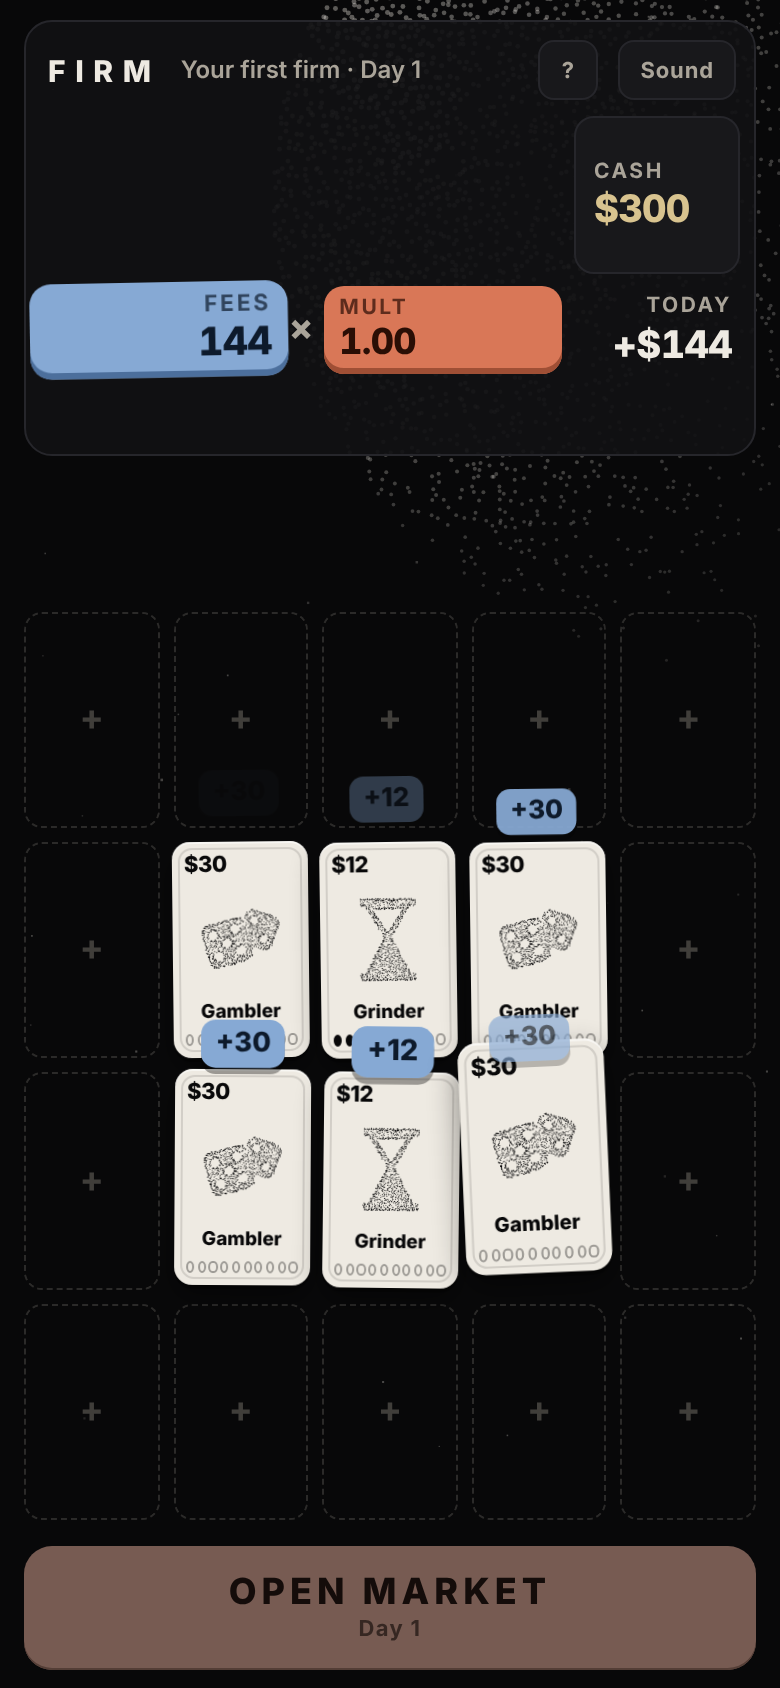
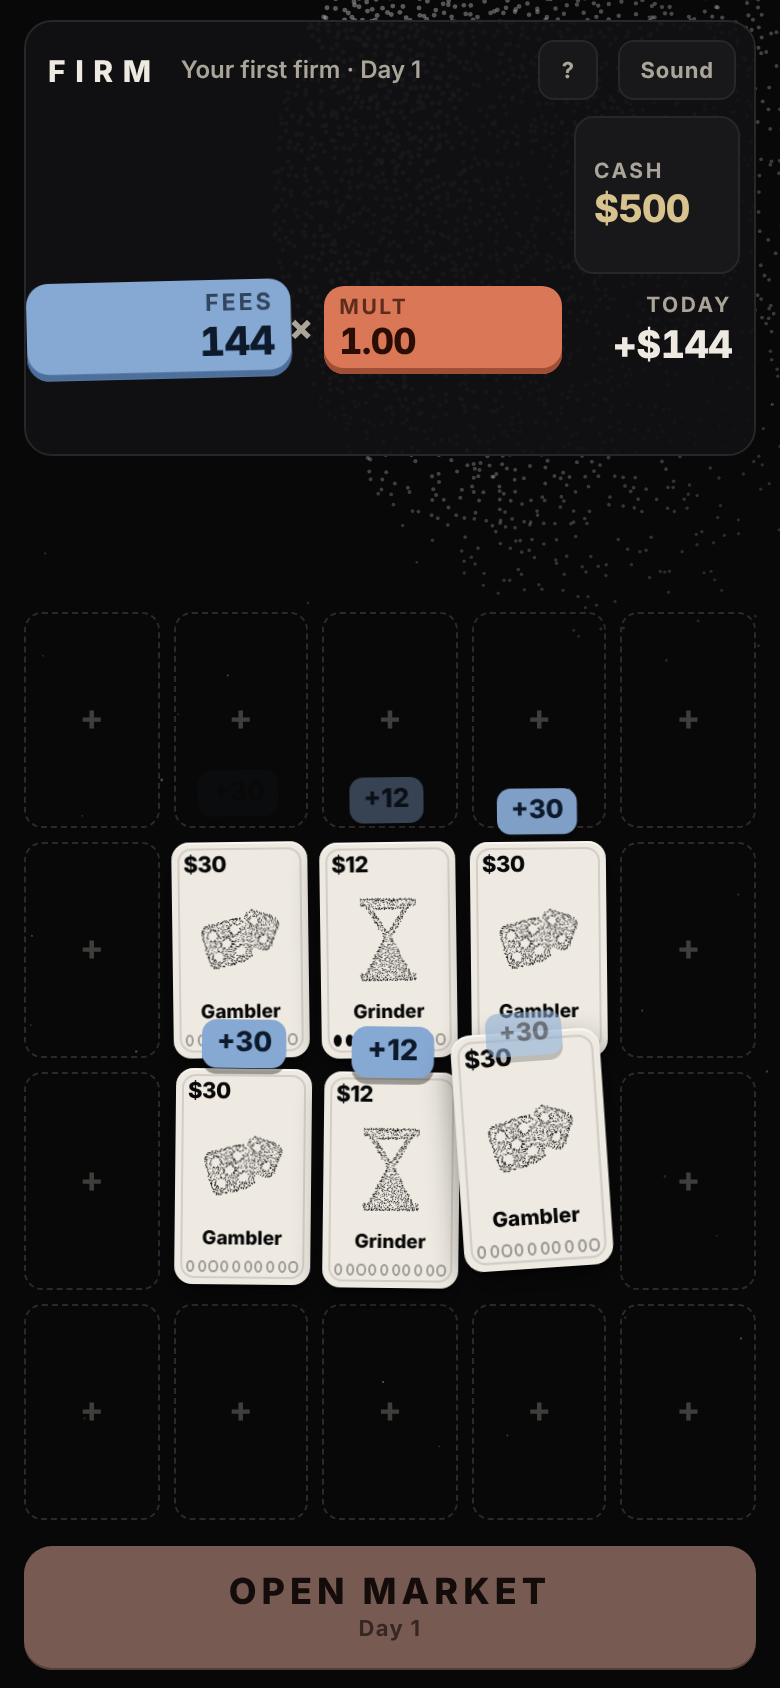
Hard mode: hires cost cash, escalating reroll cost, start $120, payroll $700 x1.55; price-aware bots; balance v2
Claude-Session: https://claude.ai/code/session_01Nb1yAZkYoauLwgSi5RFW5d

diff --git a/apps/game/src/main.ts b/apps/game/src/main.ts
@@ -1,5 +1,5 @@
 import {
-  BALANCE, CARDS, EXCUSES, cardDef, displayName, excuseDef, findCard, legalActions, newRun, seedFromString, step, trustMultiplier, valuation,
+  BALANCE, CARDS, EXCUSES, cardDef, displayName, excuseDef, findCard, legalActions, newRun, offerPrice, rerollPrice, seedFromString, step, trustMultiplier, valuation,
 } from '@firm/sim';
 import type { Action, Candle, CardInstance, GameState, Offer } from '@firm/sim';
 import { stippleArt, startSky } from './stipple.ts';
@@ -53,6 +53,7 @@ function newGame(mode: Mode): void {
     if (g) g.progress = 6;
     s = { ...s, grid };
   }
+  if (mode === 'tutorial') s = { ...s, cash: 500 };
   ui = { s, mode, firm: mode === 'tutorial' ? 'Your first firm' : firmName(seed), tape: [], bestIncome: 0, selected: null, revealed: mode === 'tutorial' ? [] : [...ALL_REVEALS], score: { base: 0, mult: 1, today: 0 } };
   shownCash = s.cash;
   closeOverlays();
@@ -139,7 +140,7 @@ function renderRun(): void {
   sky.setHeat(s.heat / 100);
   $('#day').textContent = String(s.day);
   $('#cycle').textContent = String(s.payroll.cycle);
-  $('#rerolls').textContent = String(s.rerolls);
+  $('#rerolls').textContent = money(rerollPrice(s));
   $('#booked').textContent = String(s.grid.filter(Boolean).length);
   setScore(ui.score);
 
@@ -213,12 +214,12 @@ function renderShop(): void {
     return;
   }
   shop.innerHTML = `<div class="shop-in">
-    <div class="shop-head"><b>Hire</b><small>one card a day · staff boost their 8 neighbours</small></div>
+    <div class="shop-head"><b>Hire</b><small>cash ${money(s.cash)} · payroll ${money(s.payroll.amount)} in ${Math.max(0, s.payroll.dueDay - s.day)}d</small></div>
     <div class="offers">${s.offers.map((o, i) => `
-      <button class="offer r-${offerRarity(o)}" data-o="${i}" style="--i:${i}">
+      <button class="offer r-${offerRarity(o)}${s.cash < offerPrice(o) ? ' broke' : ''}" data-o="${i}" style="--i:${i}" ${s.cash < offerPrice(o) ? 'aria-disabled="true"' : ''}><span class="price">${money(offerPrice(o))}</span>
         <span class="otag">${offerTag(o)}</span><img src="${stippleArt(offerArt(o))}" alt=""><b>${esc(offerName(o))}</b><small>${esc(offerBlurb(o))}</small>
       </button>`).join('')}</div>
-    <div class="shop-row"><button class="btn2" id="sh-reroll" ${s.rerolls > 0 ? '' : 'disabled'}>Reroll · ${s.rerolls}</button><button class="btn2 gold" id="sh-skip">Skip</button></div>
+    <div class="shop-row"><button class="btn2" id="sh-reroll" ${s.cash >= rerollPrice(s) ? '' : 'disabled'}>Reroll · ${money(rerollPrice(s))}</button><button class="btn2 gold" id="sh-skip">Skip</button></div>
   </div>`;
   shop.querySelectorAll<HTMLButtonElement>('.offer').forEach((b) => { b.onclick = () => chooseOffer(Number(b.dataset.o)); });
   $('#sh-reroll').onclick = () => { if (!gate('reroll')) return; J.tick(); act({ type: 'reroll' }); };
@@ -257,7 +258,9 @@ function afterStep(prev: GameState): void {
 
 function chooseOffer(i: number): void {
   const o = ui.s.offers[i];
-  if (!o || busy || !gate('select')) return;
+  if (!o || busy) return;
+  if (ui.s.cash < offerPrice(o)) { J.loss(); flash(`Can't afford ${offerName(o)} · ${money(offerPrice(o))}`); return; }
+  if (!gate('select')) return;
   J.unlockAudio(); J.tick();
   if (o.kind === 'excuse' || o.id === 'botfarm') {
     act({ type: 'draft', pick: i }, o.kind === 'excuse' ? `${offerName(o)} added to your excuses` : 'Bulk order placed');
@@ -562,7 +565,7 @@ function showHow(): void {
       <p class="eyebrow" id="how-title">How FIRM works</p>
       <ol class="how">
         <li><span><b>Open the market.</b> Each day prints one candle. Every customer on the book reacts and pays you <b class="k-chip">fees</b>.</span></li>
-        <li><span><b>Staff multiply.</b> Staff boost the 8 cards around them. Placement builds your <b class="k-mult">mult</b>. Fees × mult = today's take.</span></li>
+        <li><span><b>Hire carefully.</b> One card a day, paid in cash. Staff boost the 8 cards around them and build your <b class="k-mult">mult</b>. Fees × mult = today's take. Every hire is cash you won't have at payroll.</span></li>
         <li><span><b>Trends pay them.</b> Chop days mostly pay you. Trend days fill traders' dots. A full card wants a <b class="k-gold">payout</b>.</span></li>
         <li><span><b>Pay, stall, or deny.</b> Paying builds Trust, which multiplies every fee. Denying keeps cash but burns Trust and adds Heat. Fraud you've exposed can be denied for free.</span></li>
         <li><span><b>Make payroll.</b> Every 5 days, and it grows each time. Miss it and the firm closes. Heat at 100 closes it too.</span></li>
@@ -705,7 +708,7 @@ async function tutorial(): Promise<void> {
   await say({ text: 'Open the market. Every day prints one candle, and every card reacts.', target: '#btn-tap', hint: 'Tap OPEN MARKET', wait: 'tap-done', allow: ['tap'] }); if (!live()) return;
   offers([{ kind: 'card', id: 'affiliate' }, { kind: 'card', id: 'gambler' }, { kind: 'excuse', id: 'kyc' }]);
   await say({ text: 'Blue is fees, clay is your multiplier. Fees times mult is what you made today.', target: '.score' }); if (!live()) return;
-  await say({ text: 'After every day you hire one card. Take the Affiliate. Staff boost the 8 cards around them.', target: '.offers', hint: 'Tap the Affiliate', wait: 'select', allow: ['select'] }); if (!live()) return;
+  await say({ text: 'After every day you can hire one card, if you can afford it. Every dollar you spend is a dollar short at payroll. Take the Affiliate: staff boost the 8 cards around them.', target: '.offers', hint: 'Tap the Affiliate', wait: 'select', allow: ['select'] }); if (!live()) return;
   await say({ text: 'Put them next to as many Gamblers as you can. Placement is the whole game.', target: '.felt', hint: 'Tap an empty slot', wait: 'placed', allow: ['place'], top: true }); if (!live()) return;
   reveal('payroll');
   await say({ text: 'This is payroll. Every 5 days, and it grows every time. Miss it once and the firm is dead.', target: '#payroll' }); if (!live()) return;
@@ -727,7 +730,7 @@ async function tutorial(): Promise<void> {
   store('tutorialDone', true);
   ui.mode = 'random';
   renderRun();
-  await say({ text: "That's the job. Tap ? any time for the rules. Survive as long as you can, boss.", target: null });
+  await say({ text: "That's the job. From here it only gets harder. Payroll grows every cycle and every hire competes with it. Tap ? for the rules. Good luck, boss.", target: null });
 }
 
 // ================================================================== boot

diff --git a/packages/sim/test/engine.test.ts b/packages/sim/test/engine.test.ts
@@ -1,7 +1,7 @@
 import { test } from 'node:test';
 import assert from 'node:assert/strict';
 import {
-  BALANCE, CARDS, IllegalAction, findCard, legalActions, newRun, step, valuation,
+  BALANCE, CARDS, IllegalAction, findCard, legalActions, newRun, offerPrice, step, valuation,
 } from '../src/index.ts';
 import type { Candle, CardInstance, GameState } from '../src/index.ts';
 
@@ -27,10 +27,10 @@ const incomeOf = (s: GameState, uid: number): number => s.lastReport?.results.fi
 
 // ---------------------------------------------------------------- core rules
 
-test('a new run starts with six traders, $300 and two excuses', () => {
+test('a new run starts with six traders, a little cash and two excuses', () => {
   const s = newRun(1);
   assert.equal(s.grid.filter(Boolean).length, 6);
-  assert.equal(s.cash, 300);
+  assert.equal(s.cash, BALANCE.startCash);
   assert.equal(s.excuses.length, 2);
   assert.equal(s.phase, 'morning');
 });
@@ -53,6 +53,30 @@ test('step never mutates the previous state', () => {
   const before = JSON.stringify(s);
   tap(s);
   assert.equal(JSON.stringify(s), before);
+});
+
+test('hiring costs money by rarity and you cannot overspend', () => {
+  let s = tap(setup({}, 'chop'));
+  s.cash = 100;
+  s.offers = [{ kind: 'card', id: 'gambler' }, { kind: 'card', id: 'whale' }, { kind: 'excuse', id: 'kyc' }];
+  const picks = legalActions(s).filter((a) => a.type === 'draft' && a.pick !== null).map((a) => (a as { pick: number }).pick);
+  assert.deepEqual(picks, [0, 2]);
+  assert.throws(() => step(s, { type: 'draft', pick: 1 }), IllegalAction);
+  s = step(s, { type: 'draft', pick: 0, slot: 0 });
+  assert.equal(s.cash, 100 - BALANCE.prices.common!);
+});
+
+test('rerolls get more expensive each time in the same shop', () => {
+  let s = tap(setup({}, 'chop'));
+  s.cash = 1000;
+  s = step(s, { type: 'reroll' });
+  s = step(s, { type: 'reroll' });
+  assert.equal(s.cash, 1000 - BALANCE.rerollBase - (BALANCE.rerollBase + BALANCE.rerollStep));
+});
+
+test('hidden fraud is priced like an ordinary customer', () => {
+  assert.equal(offerPrice({ kind: 'card', id: 'hedger' }), BALANCE.prices.common);
+  assert.equal(offerPrice({ kind: 'card', id: 'detector' }), BALANCE.prices.rare);
 });
 
 test('the Payout Desk always has a way out, even broke with no excuses', () => {
@@ -91,7 +115,7 @@ test('paying payroll grows the next bill and moves the due day', () => {
   s = tap(s);
   s = step(s, { type: 'draft', pick: null });
   assert.equal(s.cash, 5000 - BALANCE.payrollStart);
-  assert.equal(s.payroll.amount, BALANCE.payrollStart * BALANCE.payrollGrowth);
+  assert.equal(s.payroll.amount, Math.round((BALANCE.payrollStart * BALANCE.payrollGrowth) / 10) * 10);
   assert.equal(s.payroll.dueDay, BALANCE.cycleDays * 2);
   assert.equal(s.day, BALANCE.cycleDays + 1);
 });
@@ -351,7 +375,8 @@ test('every draftable card and excuse can actually be offered', () => {
   s = tap(s);
   while (s.phase === 'payout') s = step(s, { type: 'payout', decision: 'stall' });
   for (let k = 0; k < 400; k++) {
-    s.rerolls = 1;
+    s.rerolls = 0;
+    s.cash = 1e6;
     s = step(s, { type: 'reroll' });
     for (const o of s.offers) seen.add(`${o.kind}:${o.id}`);
   }

diff --git a/packages/sim/src/engine.ts b/packages/sim/src/engine.ts
@@ -11,17 +11,21 @@ import { CANDLES } from './types.ts';
 export const BALANCE = {
   cols: 5,
   rows: 4,
-  startCash: 300,
+  startCash: 120,
   startTrust: 3,
   cycleDays: 5,
-  payrollStart: 600,
-  payrollGrowth: 1.4,
+  payrollStart: 700,
+  payrollGrowth: 1.55,
   maxTrust: 5,
   maxHeat: 100,
   heatDecay: 2,
   handSize: 4,
   offers: 3,
-  rerollsPerCycle: 1,
+  rerollsPerCycle: 0,
+  /** What hiring costs. Every hire competes with payroll. */
+  prices: { common: 40, uncommon: 85, rare: 160, excuse: 45 } as Record<string, number>,
+  rerollBase: 20,
+  rerollStep: 10,
   severance: 100,
   baseForecast: { chop: 0.5, up: 0.175, down: 0.175, news: 0.15 } as Record<Candle, number>,
   forecastBump: 0.15,
@@ -114,6 +118,19 @@ export function trustMultiplier(trust: number): number {
   return Math.round((0.4 + 0.2 * trust) * 100) / 100;
 }
 
+/** Price of an offer. Hidden fraud is priced like the ordinary customer it pretends to be. */
+export function offerPrice(o: Offer): number {
+  if (o.kind === 'excuse') return BALANCE.prices.excuse ?? 45;
+  const def = cardDef(o.id);
+  const rarity = def.disguise ? 'common' : def.rarity;
+  return BALANCE.prices[rarity] ?? 40;
+}
+
+/** Rerolls get pricier each time today (resets every shop). */
+export function rerollPrice(s: GameState): number {
+  return BALANCE.rerollBase + BALANCE.rerollStep * s.rerolls;
+}
+
 // ------------------------------------------------------------------ new run
 
 export function newRun(seed: number): GameState {
@@ -170,8 +187,8 @@ export function legalActions(s: GameState): Action[] {
     }
     case 'draft':
       out.push({ type: 'draft', pick: null });
-      s.offers.forEach((_, i) => out.push({ type: 'draft', pick: i }));
-      if (s.rerolls > 0) out.push({ type: 'reroll' });
+      s.offers.forEach((o, i) => { if (s.cash >= offerPrice(o)) out.push({ type: 'draft', pick: i }); });
+      if (s.cash >= rerollPrice(s)) out.push({ type: 'reroll' });
       break;
     case 'dead':
       break;
@@ -208,8 +225,9 @@ export function step(prev: GameState, action: Action): GameState {
       draft(s, rng, action.pick, action.slot);
       break;
     case 'reroll':
-      need(s.phase === 'draft' && s.rerolls > 0, 'no rerolls left');
-      s.rerolls -= 1;
+      need(s.phase === 'draft' && s.cash >= rerollPrice(s), 'cannot afford a reroll');
+      s.cash -= rerollPrice(s);
+      s.rerolls += 1;
       s.offers = rollOffers(s, rng);
       break;
   }
@@ -418,6 +436,7 @@ function afterPayout(s: GameState, rng: Rng): void {
 
 function enterDraft(s: GameState, rng: Rng): void {
   s.phase = 'draft';
+  s.rerolls = 0;
   s.offers = rollOffers(s, rng);
 }
 
@@ -449,6 +468,8 @@ function draft(s: GameState, rng: Rng, pick: number | null, slot?: number): void
     const offer = s.offers[pick];
     need(offer !== undefined, 'no such offer');
     const o = offer as Offer;
+    need(s.cash >= offerPrice(o), 'cannot afford that hire');
+    s.cash -= offerPrice(o);
     if (o.kind === 'excuse') {
       s.excuses.push(o.id);
       if (s.excuses.length > BALANCE.handSize) s.excuses.shift();

diff --git a/packages/bots/src/strategies.ts b/packages/bots/src/strategies.ts
@@ -1,4 +1,4 @@
-import { BALANCE, CARDS, EXCUSES, emptySlots, findCard, legalActions, neighborsOf } from '@firm/sim';
+import { BALANCE, CARDS, EXCUSES, emptySlots, findCard, legalActions, neighborsOf, offerPrice, rerollPrice } from '@firm/sim';
 import type { Action, GameState, Offer } from '@firm/sim';
 import { makeRng } from '@firm/sim';
 import type { Rng } from '@firm/sim';
@@ -113,18 +113,31 @@ function bestPlacement(s: GameState, offer: Offer): { value: number; slot?: numb
   return best;
 }
 
+/** Cash you can spend today without endangering the next payroll. */
+function spendable(s: GameState): number {
+  const daysLeft = Math.max(0, s.payroll.dueDay - s.day);
+  const loanDue = s.payroll.loanOwed > 0 && s.payroll.cycle + (daysLeft === 0 ? 0 : 0) >= s.payroll.loanDueCycle ? s.payroll.loanOwed : 0;
+  const reserve = s.payroll.amount + loanDue - avgIncome(s) * 0.85 * daysLeft;
+  return s.cash - Math.max(0, reserve);
+}
+
 function smartDraft(s: GameState): Action {
   let best: { i: number; value: number; slot?: number } = { i: -1, value: 0 };
+  const budget = spendable(s);
   s.offers.forEach((o, i) => {
+    const price = offerPrice(o);
+    if (price > budget || price > s.cash) return;
     const p = bestPlacement(s, o);
-    if (p.value > best.value) best = { i, value: p.value, ...(p.slot !== undefined ? { slot: p.slot } : {}) };
+    // value is roughly dollars per day; demand payback within ~7 days
+    const net = p.value - price / 7;
+    if (net > best.value) best = { i, value: net, ...(p.slot !== undefined ? { slot: p.slot } : {}) };
   });
-  if (best.i < 0 && s.rerolls > 0) return { type: 'reroll' };
+  if (best.i < 0 && s.rerolls === 0 && budget > rerollPrice(s) + 60) return { type: 'reroll' };
   return best.i < 0 ? { type: 'draft', pick: null } : { type: 'draft', pick: best.i, ...(best.slot !== undefined ? { slot: best.slot } : {}) };
 }
 
 function naiveDraft(s: GameState): Action {
-  const i = s.offers.findIndex((o) => o.kind === 'excuse' || emptySlots(s).length > 0);
+  const i = s.offers.findIndex((o) => s.cash >= offerPrice(o) && (o.kind === 'excuse' || emptySlots(s).length > 0));
   return { type: 'draft', pick: i < 0 ? null : i };
 }
 

diff --git a/apps/game/index.template.html b/apps/game/index.template.html
@@ -167,6 +167,9 @@ body.busy .cta { filter: saturate(.4) brightness(.7); }
 .offers { display: grid; grid-template-columns: repeat(3, minmax(0, 1fr)); gap: 10px; }
 .offer { position: relative; background: var(--paper); color: var(--ink); border-radius: 12px; padding: 10px 9px 11px; display: flex; flex-direction: column; gap: 6px; text-align: left; box-shadow: 0 8px 18px rgba(0,0,0,.5); transition: transform .12s; animation: sway 4.8s ease-in-out infinite; animation-delay: calc(var(--i) * -1.3s); }
 .offer::after { content: ''; position: absolute; inset: 4px; border: 1px solid rgba(8,8,9,.12); border-radius: 9px; pointer-events: none; }
+.offer .price { position: absolute; top: -9px; right: 8px; z-index: 2; font: 800 12px/1 var(--font); padding: 5px 8px; border-radius: 7px; background: var(--gold); color: var(--ink); box-shadow: inset 0 -2px 0 var(--gold-deep), 0 3px 8px rgba(0,0,0,.4); }
+.offer.broke { filter: grayscale(.8) brightness(.6); }
+.offer.broke .price { background: var(--panel-2); color: var(--clay); box-shadow: 0 0 0 1px var(--clay) inset; }
 .offer .otag { font: 800 9px/1 var(--font); letter-spacing: .16em; text-transform: uppercase; color: var(--ink-soft); }
 .offer.r-uncommon .otag { color: #5d6d86; } .offer.r-rare .otag { color: var(--gold-deep); } .offer.r-excuse .otag { color: var(--clay-deep); }
 .offer.r-rare { box-shadow: 0 0 0 2px var(--gold) inset, 0 8px 18px rgba(0,0,0,.5), 0 0 22px rgba(216,195,143,.25); }
@@ -347,7 +350,7 @@ body.busy .cta { filter: saturate(.4) brightness(.7); }
     <div class="stats4">
       <div class="box"><span class="lbl">Day</span><span class="big" id="day">1</span></div>
       <div class="box"><span class="lbl">Cycle</span><span class="big" id="cycle">1</span></div>
-      <div class="box"><span class="lbl">Rerolls</span><span class="big" id="rerolls">1</span></div>
+      <div class="box"><span class="lbl">Reroll</span><span class="big" id="rerolls">$20</span></div>
       <div class="box"><span class="lbl">Book</span><span class="big" id="booked">6</span></div>
     </div>
     <div class="runbtns"><button class="btn2" id="how-btn2">How it works</button><button class="btn2" id="new-run">New firm</button></div>

diff --git a/packages/bots/src/balance.ts b/packages/bots/src/balance.ts
@@ -1,4 +1,6 @@
-import { newRun, step } from '@firm/sim';
+import { BALANCE, newRun, step } from '@firm/sim';
+
+if (process.env.BAL) Object.assign(BALANCE, JSON.parse(process.env.BAL));
 import type { GameState } from '@firm/sim';
 import { BOTS, botRng } from './strategies.ts';
 

diff --git a/CLAUDE.md b/CLAUDE.md
@@ -5,7 +5,7 @@ first (playable from a link), then as iOS and Android apps via Capacitor, all fr
 
 The player runs a prop firm. A 5x4 grid holds trader and staff cards. Each day one tap prints a market
 candle (chop, trend up, trend down, news); every card reacts, fees come in, some traders move toward a
-payout. The player drafts 1 of 3 cards per day. Payroll is due every 5 days and grows x1.5 per cycle;
+payout. The player may buy 1 of 3 cards per day with cash. Payroll is due every 5 days and grows x1.55 per cycle;
 missing it ends the run. Big payouts trigger the Payout Desk (pay / stall / deny with an excuse card) and
 the Payout Interview (a 20-second inspection). Two meters: Trust and Heat. Score = peak valuation.
 
@@ -82,8 +82,11 @@ You must look at what you build before calling it done.
 
 ## Balance results
 
-Latest 10,000-game run per bot is in `design/balance-v1.txt`. Targets: careless play dies ~day 15,
-always-pay ~20 (goes broke), always-deny ~25 (Trust collapse), smart ~35 with a tail past 60.
+Hard mode is the design: every decision counts from day 1. Hires cost cash (common $40, uncommon $85,
+rare $160, excuse $45), rerolls cost $20 and rise $10 each time in the same shop. Start cash $120, first
+payroll $700, payroll grows x1.55 per cycle. Latest 10,000-game run per bot is in `design/balance-v2.txt`.
+Targets: careless play dies at the first payroll (~day 5), always-pay ~10, always-deny ~15, smart ~20
+with best runs past 40. No cheap strategy may match smart play.
 
 ## Look and feel
 
